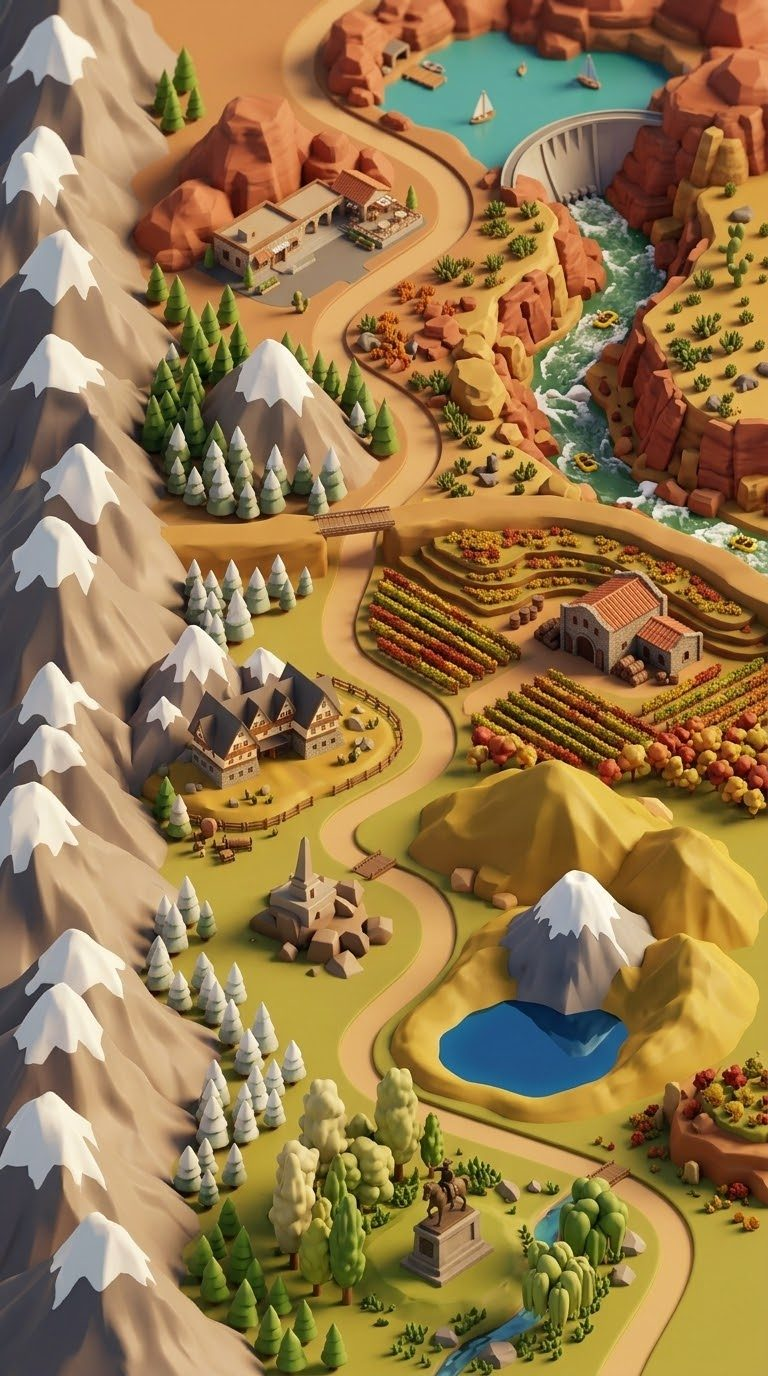
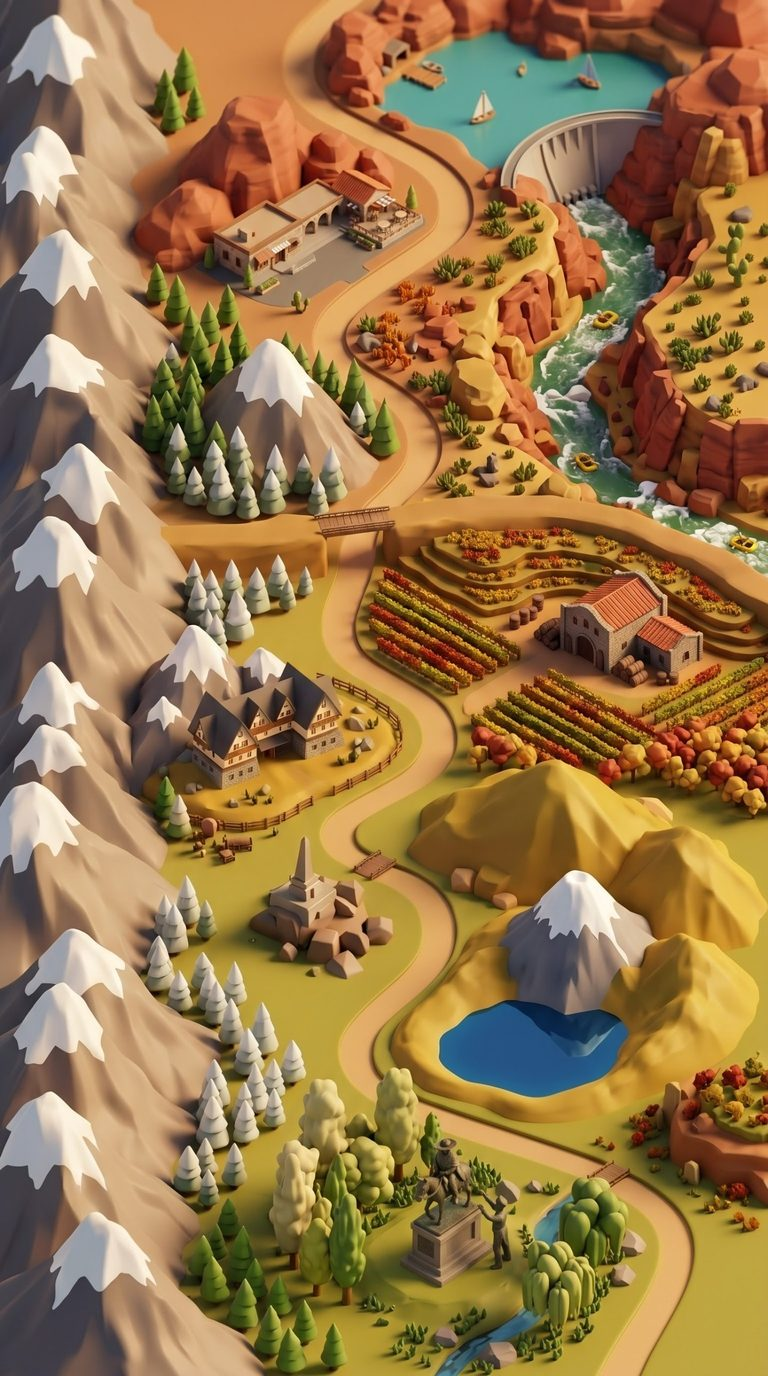
Cristo Redentor y Manzano Histórico corregidos
- Fondos, escenas y mapas con el Cristo de los Andes real y San Martín en mula (Retorno a la Patria)
- Los puntos del mapa ya no tapan esos monumentos
- Se quita la escena vieja del galpón, que ya no se usaba

Claude-Session: https://claude.ai/code/session_01EDT9RFxexvrpVyBtWf849q

diff --git a/sw.js b/sw.js
@@ -1,7 +1,7 @@
 // Service worker: guarda el juego en el celular para que se pueda instalar y jugar sin internet
-const VERSION = 'mapa-v14';
+const VERSION = 'mapa-v15';
 const PHASER = 'https://cdnjs.cloudflare.com/ajax/libs/phaser/3.80.1/phaser.min.js';
-const ASSETS = ['./', 'index.html', 'manifest.webmanifest', 'fonts/bagel-fat-one.woff2', 'fonts/gochi-hand.woff2', 'fonts/mali-400.woff2', 'fonts/mali-600.woff2', 'fonts/mali-700.woff2', 'icons/apple-touch-icon.png', 'icons/favicon.png', 'icons/icon-192.png', 'icons/icon-512.png', 'icons/icon-maskable-512.png', 'img/agua.png', 'img/alambre.png', 'img/b_condor.png', 'img/b_volcan.png', 'img/b_zonda.png', 'img/barril.png', 'img/bernardo50.jpg', 'img/bernardo_obrero.jpg', 'img/bernardo_policia.jpg', 'img/bg_aconcagua.jpg', 'img/bg_atuel.jpg', 'img/bg_bodega.jpg', 'img/bg_cacheuta.jpg', 'img/bg_caverna.jpg', 'img/bg_cerro.jpg', 'img/bg_cristo.jpg', 'img/bg_diamante.jpg', 'img/bg_finca.jpg', 'img/bg_guanacache.jpg', 'img/bg_llancanelo.jpg', 'img/bg_manzano.jpg', 'img/bg_mapa.jpg', 'img/bg_parque.jpg', 'img/bg_payunia.jpg', 'img/bg_pincheira.jpg', 'img/bg_plaza.jpg', 'img/bg_portada.jpg', 'img/bg_potrerillos.jpg', 'img/bg_prologo.jpg', 'img/bg_puente.jpg', 'img/bg_reyunos.jpg', 'img/bg_ruinas.jpg', 'img/bg_uco.jpg', 'img/bg_uspallata.jpg', 'img/bg_villavicencio.jpg', 'img/esc_agua_olivo.jpg', 'img/esc_bodega.jpg', 'img/esc_bovedas.jpg', 'img/esc_brujula.jpg', 'img/esc_caja.jpg', 'img/esc_camion.jpg', 'img/esc_cerro.jpg', 'img/esc_chimenea.jpg', 'img/esc_coleccionista.jpg', 'img/esc_colectivo.jpg', 'img/esc_cosecha.jpg', 'img/esc_cristo.jpg', 'img/esc_estacion.jpg', 'img/esc_flamencos.jpg', 'img/esc_fogata.jpg', 'img/esc_fuente.jpg', 'img/esc_gomon.jpg', 'img/esc_lagunas.jpg', 'img/esc_llave.jpg', 'img/esc_mapa.jpg', 'img/esc_marca.jpg', 'img/esc_museo.jpg', 'img/esc_olivo.jpg', 'img/esc_pincheira.jpg', 'img/esc_prologo.jpg', 'img/esc_rosa.jpg', 'img/esc_servilleta.jpg', 'img/esc_sobre.jpg', 'img/esc_termas.jpg', 'img/esc_tres_uno.jpg', 'img/esc_vendimia.jpg', 'img/esc_vianda.jpg', 'img/esc_zorra.jpg', 'img/f_canasto.png', 'img/f_damasco.png', 'img/f_gota.png', 'img/f_hoja.png', 'img/f_sol.png', 'img/f_uva.png', 'img/frag1.png', 'img/frag2.png', 'img/frag3.png', 'img/frag4.png', 'img/frag5.png', 'img/frag6.png', 'img/h_guante.png', 'img/h_pala.png', 'img/h_tijera.png', 'img/llave.png', 'img/maleza.png', 'img/mapa_ciudad.jpg', 'img/mapa_ruta7.jpg', 'img/mapa_sur.jpg', 'img/mapa_valle.jpg', 'img/niebla.png', 'img/nieta.jpg', 'img/nieta_feliz.jpg', 'img/nieta_normal.jpg', 'img/nieta_serio.jpg', 'img/nieta_sorpresa.jpg', 'img/nieto.jpg', 'img/nieto_feliz.jpg', 'img/nieto_normal.jpg', 'img/nieto_serio.jpg', 'img/nieto_sorpresa.jpg', 'img/obj_balsa.png', 'img/obj_boleto.png', 'img/obj_brujula.png', 'img/obj_corcho.png', 'img/obj_cuaderno.png', 'img/obj_entrada.png', 'img/obj_farol.png', 'img/obj_foto_abuelos.png', 'img/obj_foto_hijos.png', 'img/obj_gorra.png', 'img/obj_herradura.png', 'img/obj_mapa.png', 'img/obj_moneda.png', 'img/obj_nota.png', 'img/obj_pluma.png', 'img/obj_pomez.png', 'img/obj_servilleta.png', 'img/obj_termo.png', 'img/octavio.jpg', 'img/octavio_feliz.jpg', 'img/octavio_normal.jpg', 'img/octavio_serio.jpg', 'img/octavio_sorpresa.jpg', 'img/p_llave.png', 'img/roberto_camionero.jpg', 'img/roberto_viajero.jpg', 'img/rock_hielo.png', 'img/rock_ladrillo.png', 'img/rock_lava.png', 'img/rock_piedra.png', 'img/rosa.jpg', 'img/rosa_feliz.jpg', 'img/rosa_normal.jpg', 'img/rosa_serio.jpg', 'img/rosa_sorpresa.jpg', 'img/s_cristal.png', 'img/s_flor.png', 'img/s_herradura.png', 'img/s_lava.png', 'img/s_pluma.png', 'img/s_totora.png', 'img/suelo_arena.png', 'img/suelo_ceniza.png', 'img/suelo_nieve.png', 'img/suelo_polvo.png', 'img/suelo_tierra.png', 'img/t_copo.png', 'img/t_farol.png', 'img/t_flor.png', 'img/t_reloj.png', 'img/t_rueda.png', 'img/t_valija.png', 'img/ui_bolsa.png', 'img/ui_cofre.png', 'img/ui_cofre_abierto.png', 'img/ui_corazon.png', 'img/ui_jugadas.png', 'img/ui_mercado.png', 'img/ui_mochila.png', 'img/ui_moneda.png'];
+const ASSETS = ['./', 'index.html', 'manifest.webmanifest', 'fonts/bagel-fat-one.woff2', 'fonts/gochi-hand.woff2', 'fonts/mali-400.woff2', 'fonts/mali-600.woff2', 'fonts/mali-700.woff2', 'icons/apple-touch-icon.png', 'icons/favicon.png', 'icons/icon-192.png', 'icons/icon-512.png', 'icons/icon-maskable-512.png', 'img/agua.png', 'img/alambre.png', 'img/b_condor.png', 'img/b_volcan.png', 'img/b_zonda.png', 'img/barril.png', 'img/bernardo50.jpg', 'img/bernardo_obrero.jpg', 'img/bernardo_policia.jpg', 'img/bg_aconcagua.jpg', 'img/bg_atuel.jpg', 'img/bg_bodega.jpg', 'img/bg_cacheuta.jpg', 'img/bg_caverna.jpg', 'img/bg_cerro.jpg', 'img/bg_cristo.jpg', 'img/bg_diamante.jpg', 'img/bg_finca.jpg', 'img/bg_guanacache.jpg', 'img/bg_llancanelo.jpg', 'img/bg_manzano.jpg', 'img/bg_mapa.jpg', 'img/bg_parque.jpg', 'img/bg_payunia.jpg', 'img/bg_pincheira.jpg', 'img/bg_plaza.jpg', 'img/bg_portada.jpg', 'img/bg_potrerillos.jpg', 'img/bg_prologo.jpg', 'img/bg_puente.jpg', 'img/bg_reyunos.jpg', 'img/bg_ruinas.jpg', 'img/bg_uco.jpg', 'img/bg_uspallata.jpg', 'img/bg_villavicencio.jpg', 'img/esc_agua_olivo.jpg', 'img/esc_bodega.jpg', 'img/esc_bovedas.jpg', 'img/esc_brujula.jpg', 'img/esc_camion.jpg', 'img/esc_cerro.jpg', 'img/esc_chimenea.jpg', 'img/esc_coleccionista.jpg', 'img/esc_colectivo.jpg', 'img/esc_cosecha.jpg', 'img/esc_cristo.jpg', 'img/esc_estacion.jpg', 'img/esc_flamencos.jpg', 'img/esc_fogata.jpg', 'img/esc_fuente.jpg', 'img/esc_gomon.jpg', 'img/esc_lagunas.jpg', 'img/esc_llave.jpg', 'img/esc_mapa.jpg', 'img/esc_marca.jpg', 'img/esc_museo.jpg', 'img/esc_olivo.jpg', 'img/esc_pincheira.jpg', 'img/esc_prologo.jpg', 'img/esc_rosa.jpg', 'img/esc_servilleta.jpg', 'img/esc_sobre.jpg', 'img/esc_termas.jpg', 'img/esc_tres_uno.jpg', 'img/esc_vendimia.jpg', 'img/esc_vianda.jpg', 'img/esc_zorra.jpg', 'img/f_canasto.png', 'img/f_damasco.png', 'img/f_gota.png', 'img/f_hoja.png', 'img/f_sol.png', 'img/f_uva.png', 'img/frag1.png', 'img/frag2.png', 'img/frag3.png', 'img/frag4.png', 'img/frag5.png', 'img/frag6.png', 'img/h_guante.png', 'img/h_pala.png', 'img/h_tijera.png', 'img/llave.png', 'img/maleza.png', 'img/mapa_ciudad.jpg', 'img/mapa_ruta7.jpg', 'img/mapa_sur.jpg', 'img/mapa_valle.jpg', 'img/niebla.png', 'img/nieta.jpg', 'img/nieta_feliz.jpg', 'img/nieta_normal.jpg', 'img/nieta_serio.jpg', 'img/nieta_sorpresa.jpg', 'img/nieto.jpg', 'img/nieto_feliz.jpg', 'img/nieto_normal.jpg', 'img/nieto_serio.jpg', 'img/nieto_sorpresa.jpg', 'img/obj_balsa.png', 'img/obj_boleto.png', 'img/obj_brujula.png', 'img/obj_corcho.png', 'img/obj_cuaderno.png', 'img/obj_entrada.png', 'img/obj_farol.png', 'img/obj_foto_abuelos.png', 'img/obj_foto_hijos.png', 'img/obj_gorra.png', 'img/obj_herradura.png', 'img/obj_mapa.png', 'img/obj_moneda.png', 'img/obj_nota.png', 'img/obj_pluma.png', 'img/obj_pomez.png', 'img/obj_servilleta.png', 'img/obj_termo.png', 'img/octavio.jpg', 'img/octavio_feliz.jpg', 'img/octavio_normal.jpg', 'img/octavio_serio.jpg', 'img/octavio_sorpresa.jpg', 'img/p_llave.png', 'img/roberto_camionero.jpg', 'img/roberto_viajero.jpg', 'img/rock_hielo.png', 'img/rock_ladrillo.png', 'img/rock_lava.png', 'img/rock_piedra.png', 'img/rosa.jpg', 'img/rosa_feliz.jpg', 'img/rosa_normal.jpg', 'img/rosa_serio.jpg', 'img/rosa_sorpresa.jpg', 'img/s_cristal.png', 'img/s_flor.png', 'img/s_herradura.png', 'img/s_lava.png', 'img/s_pluma.png', 'img/s_totora.png', 'img/suelo_arena.png', 'img/suelo_ceniza.png', 'img/suelo_nieve.png', 'img/suelo_polvo.png', 'img/suelo_tierra.png', 'img/t_copo.png', 'img/t_farol.png', 'img/t_flor.png', 'img/t_reloj.png', 'img/t_rueda.png', 'img/t_valija.png', 'img/ui_bolsa.png', 'img/ui_cofre.png', 'img/ui_cofre_abierto.png', 'img/ui_corazon.png', 'img/ui_jugadas.png', 'img/ui_mercado.png', 'img/ui_mochila.png', 'img/ui_moneda.png'];
 
 self.addEventListener('install', (e) => {
   e.waitUntil(caches.open(VERSION).then((c) => c.addAll(ASSETS).then(() =>

diff --git a/index.html b/index.html
@@ -1771,8 +1771,8 @@ function openTitle() {
 // Posición de cada lugar sobre el mapa de su acto (% del ancho y del alto del dibujo)
 const NODES = {
   prologo: [40, 95], finca: [75, 88], ruinas: [68, 71], plaza: [66, 49], parque: [80, 28], cerro: [36, 28], bodega: [30, 12],
-  villavicencio: [28, 82], cacheuta: [72, 66], potrerillos: [58, 53], uspallata: [32, 42], puente: [60, 30], aconcagua: [72, 18], cristo: [36, 11],
-  manzano: [57, 85], diamante: [70, 74], uco: [70, 46], atuel: [80, 32], reyunos: [64, 12],
+  villavicencio: [28, 82], cacheuta: [72, 66], potrerillos: [58, 53], uspallata: [32, 42], puente: [60, 30], aconcagua: [72, 18], cristo: [55, 13],
+  manzano: [33, 90], diamante: [70, 74], uco: [70, 46], atuel: [80, 32], reyunos: [64, 12],
   caverna: [53, 84], pincheira: [84, 68], llancanelo: [74, 48], payunia: [66, 33], guanacache: [37, 15], epilogo: [66, 6],
 };
 const BAG_SVG = `<svg viewBox="0 0 64 64"><path d="M20 18c0-8 5-12 12-12s12 4 12 12" fill="none" stroke="#6b3f22" stroke-width="5"/><rect x="10" y="16" width="44" height="42" rx="12" fill="#a8683a"/><rect x="10" y="16" width="44" height="16" rx="10" fill="#8a5230"/><rect x="18" y="36" width="28" height="16" rx="5" fill="#8a5230"/><rect x="29" y="28" width="6" height="10" rx="2" fill="#e6b84a"/></svg>`;
